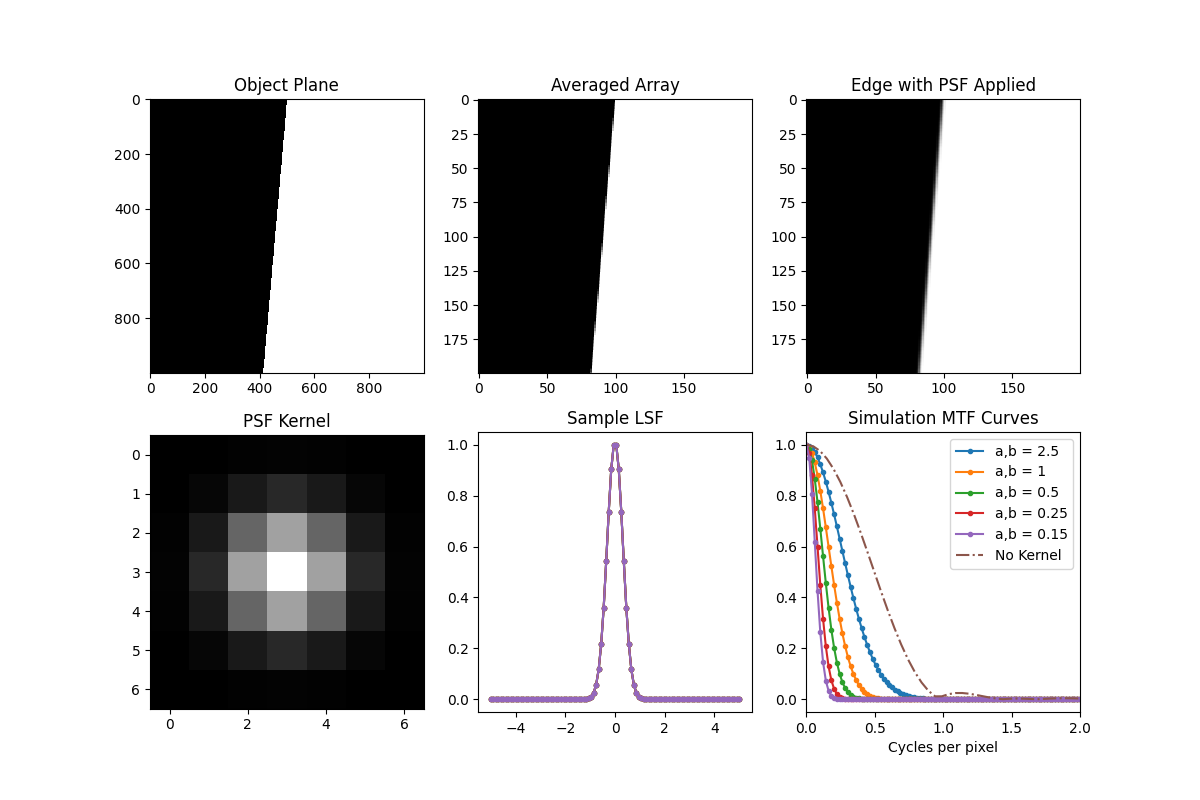
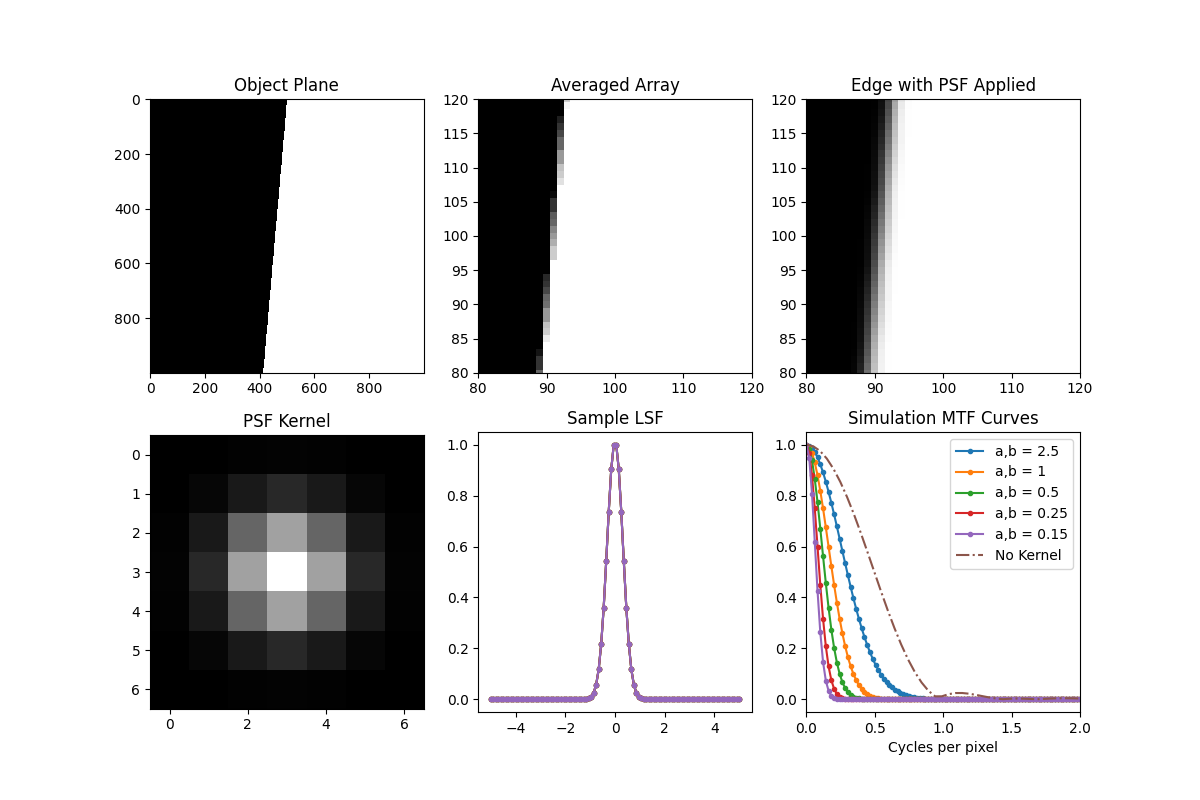
jhg

diff --git a/mtf_curve_generator.py b/mtf_curve_generator.py
@@ -135,6 +135,8 @@ def main():
     dist, intensity = make_lsf(a,b, 5)
     freq,mtf = fft(a,b,theta)
     image2 = convolve(psf_kernal,image)
+    image2=  cv2.flip(image2, 0)
+    image=  cv2.flip(image, 0)
 
     fig, ax = plt.subplots(2,3, figsize = (12,8))
 
@@ -142,8 +144,12 @@ def main():
     ax[0][0].imshow(object_edge, cmap= cm.gray, interpolation= 'none')
     ax[0][0].set_title("Object Plane")
     ax[0][1].imshow(image, cmap= cm.gray, interpolation= 'none')
+    ax[0][2].set_xlim(80,120)
+    ax[0][2].set_ylim(80,120)
     ax[0][1].set_title("Averaged Array")
     ax[0][2].imshow(image2, cmap= cm.gray, interpolation= 'none')
+    ax[0][1].set_xlim(80,120)
+    ax[0][1].set_ylim(80,120)
     ax[0][2].set_title("Edge with PSF Applied")
     ax[1][0].imshow(psf_kernal,cmap= cm.gray, interpolation= 'none')
     ax[1][0].set_title("PSF Kernel")
